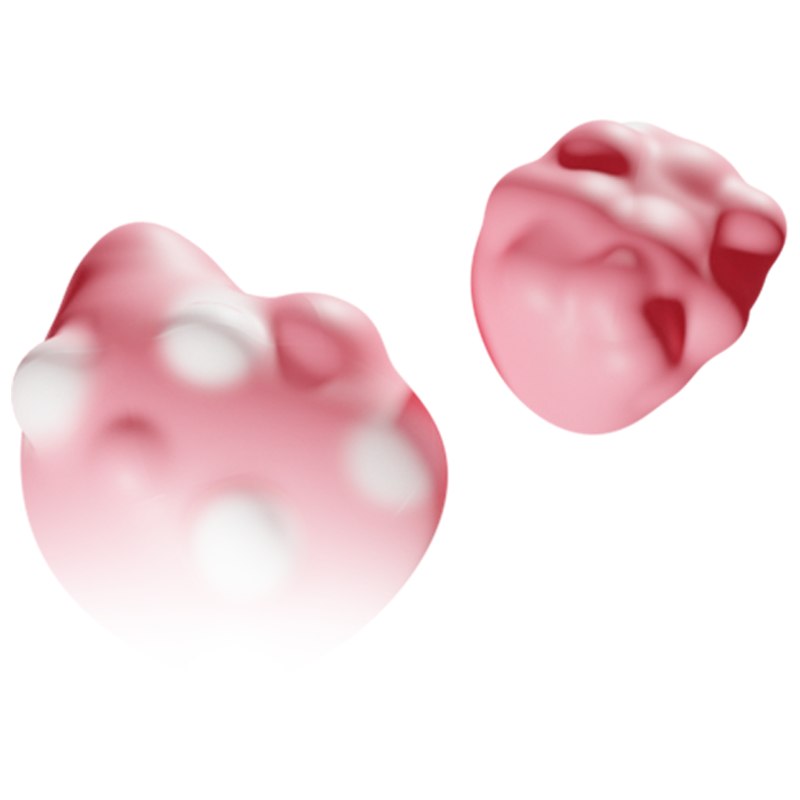
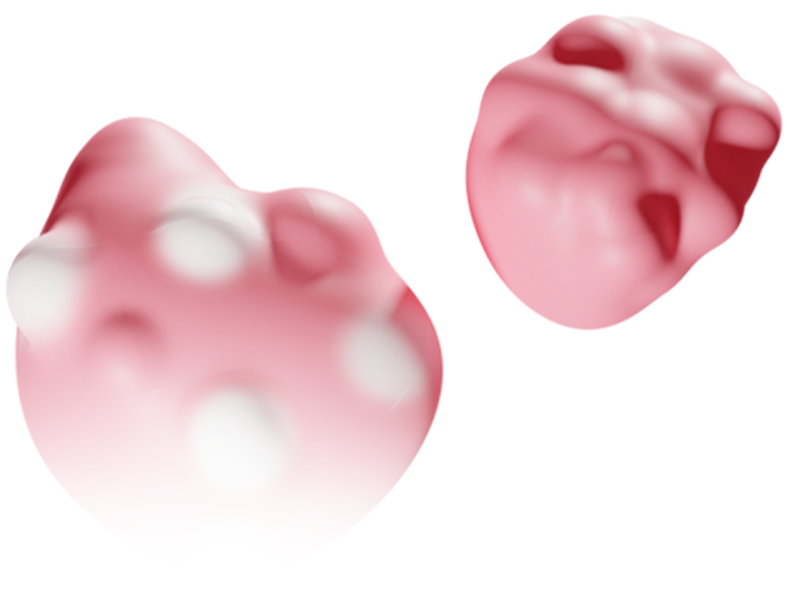
feat: home pink img 위치 조정

diff --git a/src/pages/Home.js b/src/pages/Home.js
@@ -17,7 +17,9 @@ export default function Home() {
         color="white"
         fontSize="2.5rem"
       >
-        <PinkImg src="./images/pink2.png" alt="sent_pink"></PinkImg>
+        <PinkImgDiv>
+          <PinkImg src="./images/pink2.png" alt="sent_pink"></PinkImg>
+        </PinkImgDiv>
         <BoxMysentContent>
           <BoxWord>MY SENT&nbsp;&nbsp;</BoxWord>
           <ButtonImg
@@ -60,12 +62,12 @@ const StyledParagraph = styled.p`
   font-weight: 800;
   width: 45rem;
   padding: 1rem 3rem;
-  margin-top: 5rem;
+  margin-top: 3rem;
 `;
 
 const Box = styled.button`
   font-size: ${(props) => props.fontSize};
-  height: 33rem;
+  height: 29rem;
   width: 39.7rem;
   color: ${(props) => props.color};
   border: none;
@@ -73,9 +75,12 @@ const Box = styled.button`
   border-radius: 1rem;
 `;
 
+const PinkImgDiv = styled.div`
+`;
+
 const PinkImg = styled.img`
-  margin-top: -1rem;
-  width: 30rem;
+  margin-top: 2rem;
+  width: 34rem;
   opacity: 0.8;
 `;
 
@@ -88,7 +93,7 @@ const BoxMysentContent = styled.div`
   align-items: center;
   padding-right: 2rem;
   position: relative;
-  bottom: 1rem;
+  top: -5rem;
 `;
 
 const BoxWord = styled.p`
